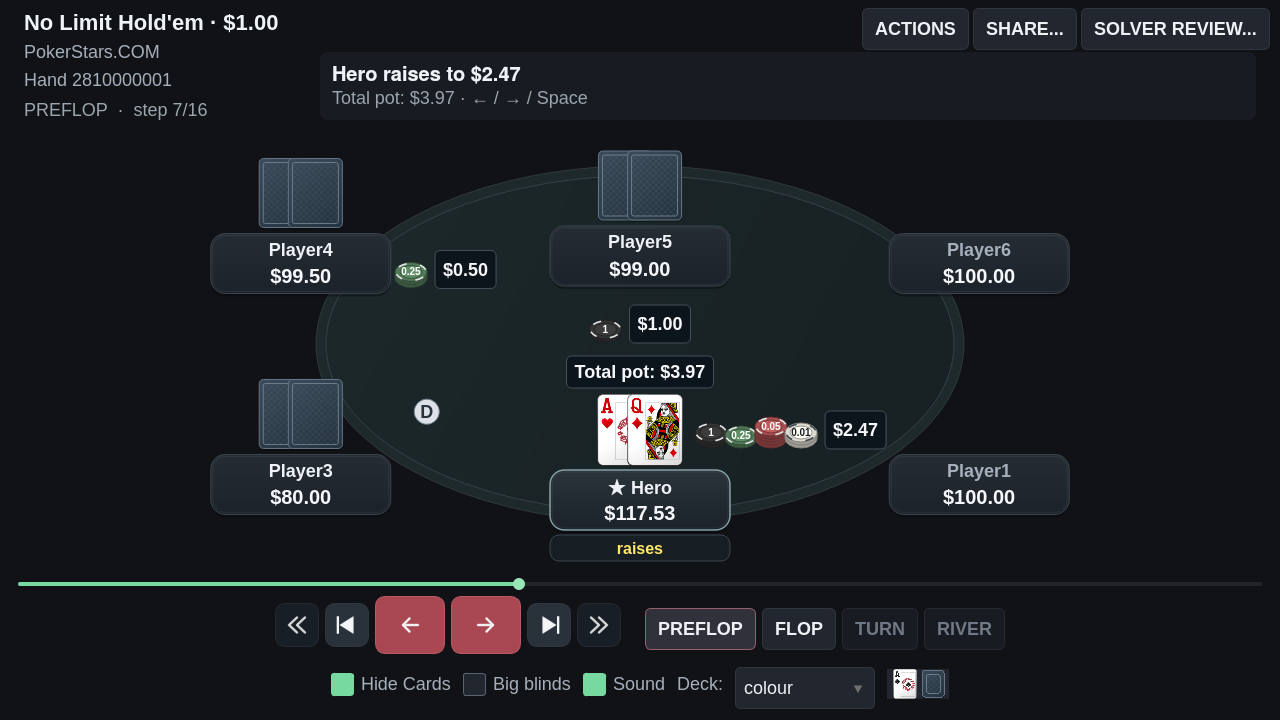
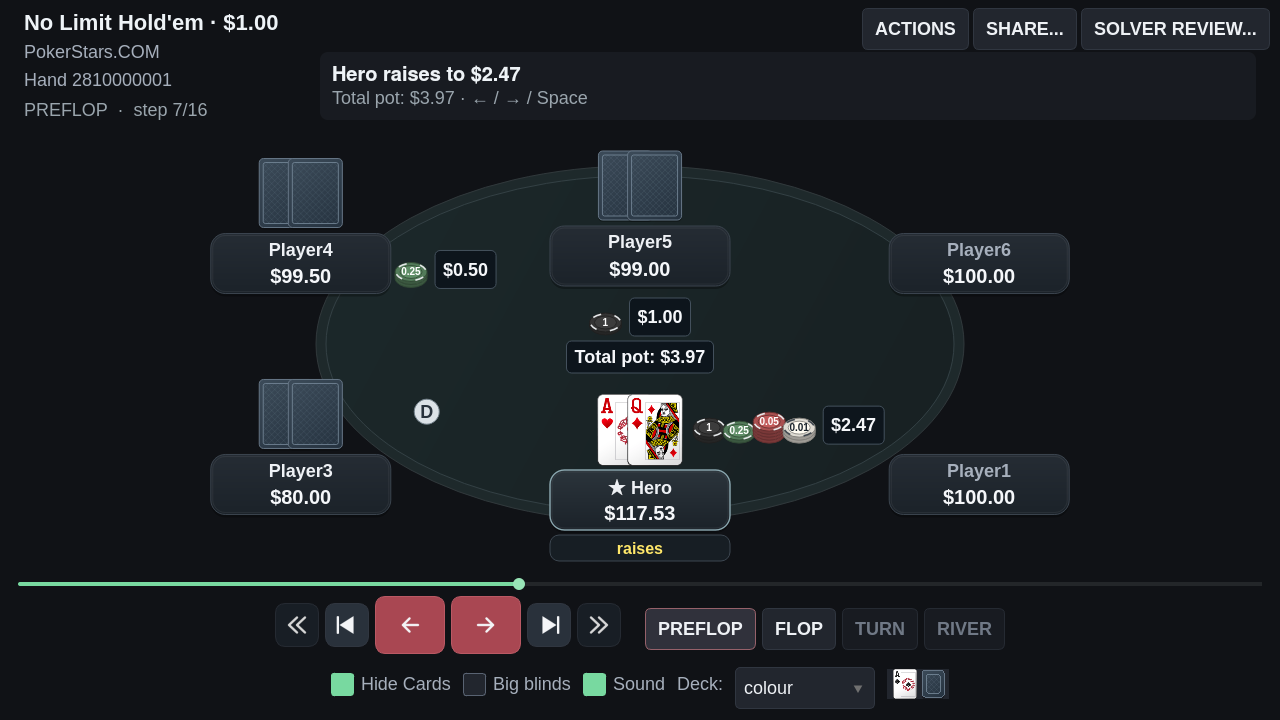
docs: verify all seat bets inside felt and reproduce the five-handed turn

Changed region(s): [[0.4375, 0.3972, 0.5625, 0.55], [0.5312, 0.55, 0.6875, 0.6417]]

diff --git a/docs/REPLAYER_POKERSTARS_CARDS.md b/docs/REPLAYER_POKERSTARS_CARDS.md
@@ -20,6 +20,15 @@ mais legíveis e identificação inequívoca do dono de cada aposta.
   Em espaços muito estreitos, prioriza o rótulo do valor exato sobre as pilhas
   decorativas, mantendo a decomposição disponível no tooltip.
 - O total do pote pré-flop reserva espaço abaixo da aposta do assento superior.
+- O grupo inteiro (pilhas e rótulo) deve caber no oval interno do feltro,
+  com margem em relação à borda. A verificação considera os quatro cantos,
+  e não apenas o centro do grupo ou o retângulo que envolve a mesa.
+- As posições válidas são ordenadas pela distância ao ponto do assento,
+  incluindo a borda curva: isso evita deslocar a aposta para outro jogador
+  quando existe um espaço mais próximo dentro da mesa.
+- Potes centrais e side pots usam as mesmas restrições e são desenhados após
+  reservar cartas, placas, badges e dealers. Em mesas muito densas, o rótulo
+  compacto conserva o valor exato dentro do feltro.
 - Fichas de 32 px, com bordas segmentadas, profundidade e denominação impressa.
   A decomposição continua exata; os valores impressos são unidades canônicas,
   enquanto o rótulo do total acompanha o modo monetário ou BB.
@@ -43,7 +52,7 @@ com uma mão pública de teste.
 
 ## Verificação
 
-- **159 testes direcionados aprovados**, incluindo layout, BB, fichas exatas,
+- **213 testes direcionados aprovados**, incluindo layout, BB, fichas exatas,
   fold, variantes, controles, áudio, equidade, compartilhamento e solver review.
 - Ruff aprovado nos arquivos alterados; mypy aprovado nos módulos de cartas,
   fichas e áudio.
@@ -58,6 +67,29 @@ com uma mão pública de teste.
   com os elementos visíveis reservados, o pote ou outras apostas, e sem sair
   da janela ou invadir os controles. Testes específicos cobrem desvios locais
   totalmente bloqueados e a apresentação compacta do valor.
+- **54 casos** cobrem cada assento em mesas de **2 a 10 jogadores**, com
+  apostas simultâneas, board, pote e dealer, em três tamanhos e nos modos
+  monetário/BB. Todos os grupos devem caber integralmente no oval e não colidir.
+- **25 mãos reais recentes**, **944 frames** e **2.306 grupos de aposta/pote**
+  conferidos em 1280×720 e 1260×1380: todos dentro do feltro e sem sobreposição
+  com os elementos reservados ou outros grupos. Essa conferência não gera
+  capturas nem publica dados pessoais.
+
+## Correção da aposta fora da mesa
+
+A captura enviada pelo usuário revelou que os limites da janela eram insuficientes:
+o Hero podia ter uma aposta sem colisões, mas abaixo do oval. A restrição ao
+feltro agora se aplica a todos os assentos, às fichas ganhas e aos potes centrais.
+Também foi corrigida a posição do pote em janelas curtas, onde podia ocupar a
+área das cartas do Hero.
+
+Uma reprodução pública de cinco jogadores mostra Hero apostando **12 BB**,
+outro jogador aumentando para **24 BB** e **17 BB** já recolhidos no centro.
+A soma apresentada é **53 BB**; as apostas continuam separadas do pote físico.
+
+![Hero e raise inteiramente dentro do feltro, janela vertical](images/replayer-felt-bounds/turn-bets-1260.png)
+
+![As mesmas apostas em janela curta, sem sobrepor cartas ou pote](images/replayer-felt-bounds/turn-bets-1280.png)
 
 As capturas não acessam o banco pessoal. Para reproduzir com faces locais:
 
@@ -70,6 +102,8 @@ QT_QPA_PLATFORM=offscreen .venv/bin/python tools/capture_replayer_review.py \
 
 Acrescente `--big-blinds` para verificar a apresentação em BB. Sem
 `--pokerstars-path`, a configuração pública de exemplo usa as faces SVG.
+Acrescente `--bet-cases --big-blinds` para reproduzir o turn de 12 BB contra 24 BB
+nas janelas de 1280×720 e 1260×1380.
 
 ![Aposta do Hero junto às próprias cartas](images/replayer-pokerstars/actor-1280.png)
 
